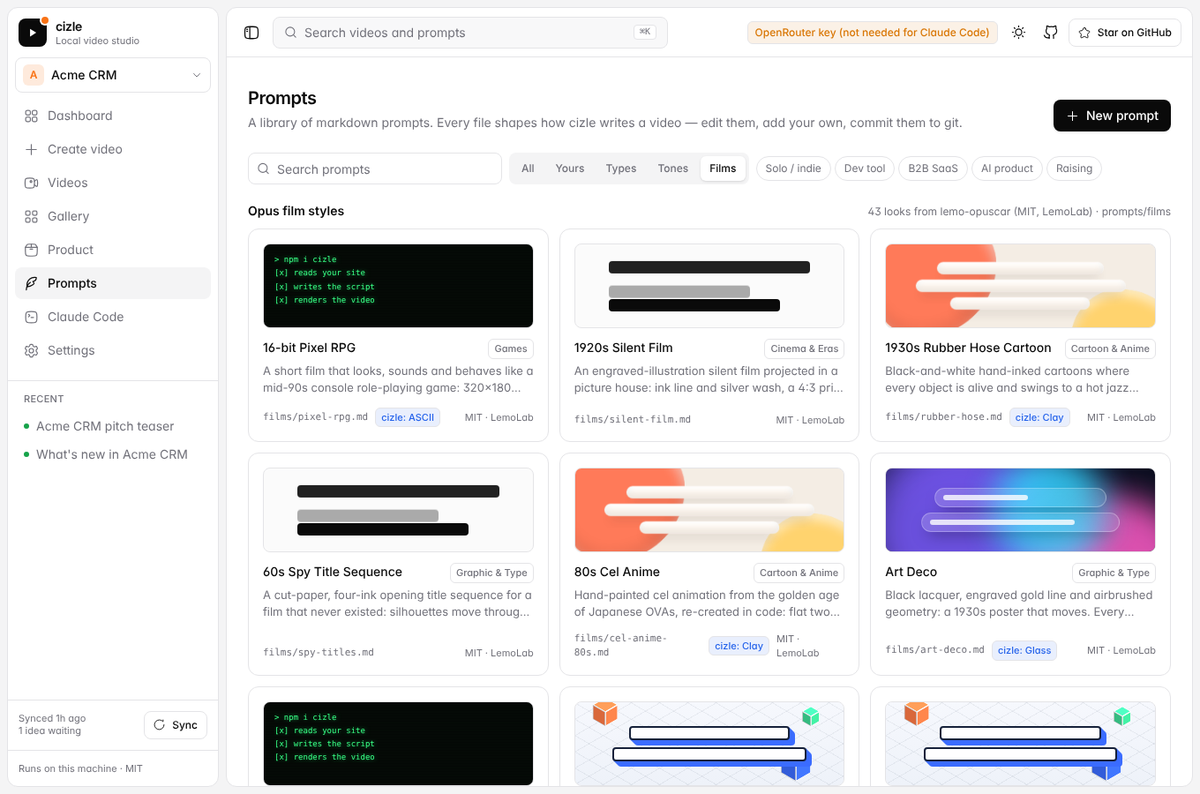
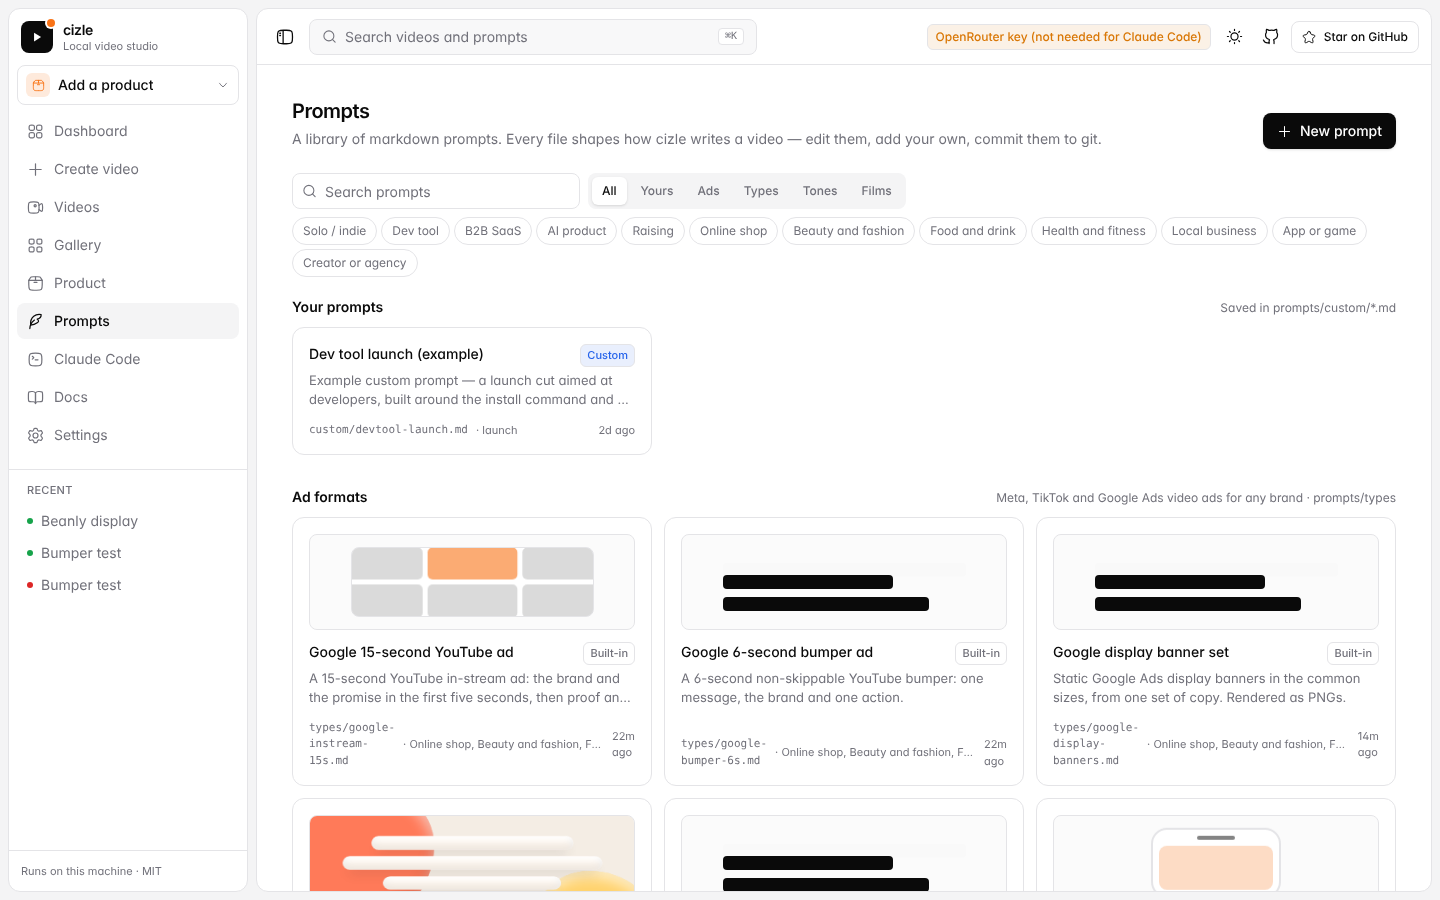
Storyboards can carry real images, fix ads guide syntax, serve mp4 with Range, refresh docs screenshots
Claude-Session: https://claude.ai/code/session_01ADgGft7A9yJ8TpQNorLuxU

diff --git a/server/pipeline/job.js b/server/pipeline/job.js
@@ -24,7 +24,7 @@ import {
 	sanitizeStoryboard,
 	verifyOpenRouterKey,
 } from "./render.js";
-import { ensureFfmpeg } from "./media.js";
+import { ensureFfmpeg, probeImageSize } from "./media.js";
 import { cleanPack, estimatePackCost, packMarkdown, packToStoryboard, runPackJob } from "./pack.js";
 import { STYLE_IDS, normalizeStyle } from "./styles.js";
 import { gatherProductContext } from "./context.js";
@@ -42,7 +42,7 @@ import { loadSettings } from "../settings.js";
 import { tierModels } from "../models.js";
 import { isFreeModel } from "./openrouter.js";
 import { readProductMemory } from "../products/store.js";
-import { VIDEOS_DIR } from "../paths.js";
+import { ROOT, VIDEOS_DIR } from "../paths.js";
 
 const MAX_SHORT_SEC = 59;
 const jobs = new Map();
@@ -376,6 +376,41 @@ export async function createStoryboardJob(body = {}, deps, { origin = { kind: "c
 	return publicJob(job);
 }
 
+const IMAGE_EXT = /\.(png|jpe?g)$/i;
+/**
+ * A scene written by an agent can carry its own picture: visual.image is a local PNG/JPEG path (absolute, or relative to the
+ * cizle folder) or an https URL. Each becomes a frame the renderer can show (visual.chrome: false drops the browser window).
+ */
+async function framesFromScenes(scenes, workDir) {
+	const frames = [];
+	const byKey = new Map();
+	for (const sc of scenes) {
+		const v = sc?.visual;
+		if (!v?.image || !["screenshot", "image"].includes(v.type)) continue;
+		const key = String(v.image);
+		let f = byKey.get(key);
+		if (!f) {
+			let file;
+			if (/^https:\/\//i.test(key)) {
+				const res = await fetch(key, { signal: AbortSignal.timeout(20_000) });
+				if (!res.ok) throw badInput(`Could not download the image ${key} (${res.status}).`);
+				file = path.join(workDir, "frames", `img${frames.length + 1}${/\.jpe?g/i.test(key) ? ".jpg" : ".png"}`);
+				await fsp.mkdir(path.dirname(file), { recursive: true });
+				await fsp.writeFile(file, Buffer.from(await res.arrayBuffer()));
+			} else {
+				file = path.resolve(ROOT, key);
+				if (!IMAGE_EXT.test(file) || !fs.existsSync(file) || fs.statSync(file).size > 15_000_000) throw badInput(`visual.image must be a PNG or JPEG file under 15 MB or an https URL: ${key}`);
+			}
+			const { width, height } = await probeImageSize(file);
+			f = { id: `img${frames.length + 1}`, kind: v.chrome === false ? "image" : "section", file, width, height, url: "", source: key };
+			frames.push(f);
+			byKey.set(key, f);
+		}
+		v.frame_id = f.id;
+	}
+	return frames;
+}
+
 async function runStoryboardJob(job, board, body, deps) {
 	const input = job.input;
 	const workDir = jobDir(job.id);
@@ -394,9 +429,10 @@ async function runStoryboardJob(job, board, body, deps) {
 	const style = normalizeStyle(input.style && input.style !== "auto" ? input.style : board.theme?.style || typeEntry?.style || "default");
 	job.style = style;
 	const source = { name: job.title, title: job.title, url: input.url || "", type: "page" };
+	const frames = await framesFromScenes(board.scenes.slice(0, 14), workDir);
 	const sb = sanitizeStoryboard(
 		{ ...board, scenes: board.scenes.slice(0, 14), music: board.music || { mood: "calm", search_query: "light instrumental", bpm: 96 }, sfx: false },
-		{ frames: [], codeFiles: [], input: { max_scenes: 14 }, source, instructions: "" },
+		{ frames, codeFiles: [], input: { max_scenes: 14 }, source, instructions: "" },
 	);
 	const outro = sb.scenes[sb.scenes.length - 1].visual;
 	if (outro.type === "outro") {
@@ -424,7 +460,7 @@ async function runStoryboardJob(job, board, body, deps) {
 	};
 	job.variants = [v];
 	await save(job);
-	await renderOne({ job, v, gathered: { frames: [], repoDir: null }, notes: [], input, workDir, deps, costs, log, rel });
+	await renderOne({ job, v, gathered: { frames, repoDir: null }, notes: [], input, workDir, deps, costs, log, rel });
 	throwIfCancelled();
 	const spent = costs.reduce((a, c) => a + (c.usd || 0), 0);
 	job.cost = { currency: "USD", total_usd: round(spent), by_stage: groupCost(costs), by_variant: { v1: round(spent, 6) } };

diff --git a/server/index.js b/server/index.js
@@ -237,13 +237,10 @@ api.get("/gallery", async (c) => {
 
 /* local files (frames, MP4s) with Range support for video seeking */
 const TYPES = { ".mp4": "video/mp4", ".png": "image/png", ".jpg": "image/jpeg", ".json": "application/json", ".srt": "text/plain; charset=utf-8", ".wav": "audio/wav", ".m4a": "audio/mp4" };
-api.get("/files/:id", (c) => {
-	const base = path.resolve(jobDir(c.req.param("id")));
-	const file = path.resolve(base, String(c.req.query("p") || ""));
-	if (!file.startsWith(base + path.sep) || !fs.existsSync(file) || !fs.statSync(file).isFile()) return c.json({ error: "Not found" }, 404);
-	const type = TYPES[path.extname(file).toLowerCase()] || "application/octet-stream";
+/** Stream a file with Range support (video seeking). */
+function serveFile(c, file, type, extra = {}) {
 	const size = fs.statSync(file).size;
-	const headers = { "Content-Type": type, "Accept-Ranges": "bytes", ...(c.req.query("download") ? { "Content-Disposition": `attachment; filename="${path.basename(file)}"` } : {}) };
+	const headers = { "Content-Type": type, "Accept-Ranges": "bytes", ...extra };
 	const range = /^bytes=(\d*)-(\d*)$/.exec(c.req.header("range") || "");
 	if (range) {
 		const start = range[1] ? Number(range[1]) : 0;
@@ -252,6 +249,13 @@ api.get("/files/:id", (c) => {
 		return c.body(Readable.toWeb(fs.createReadStream(file, { start, end })), 206, { ...headers, "Content-Length": String(end - start + 1), "Content-Range": `bytes ${start}-${end}/${size}` });
 	}
 	return c.body(Readable.toWeb(fs.createReadStream(file)), 200, { ...headers, "Content-Length": String(size) });
+}
+api.get("/files/:id", (c) => {
+	const base = path.resolve(jobDir(c.req.param("id")));
+	const file = path.resolve(base, String(c.req.query("p") || ""));
+	if (!file.startsWith(base + path.sep) || !fs.existsSync(file) || !fs.statSync(file).isFile()) return c.json({ error: "Not found" }, 404);
+	const type = TYPES[path.extname(file).toLowerCase()] || "application/octet-stream";
+	return serveFile(c, file, type, c.req.query("download") ? { "Content-Disposition": `attachment; filename="${path.basename(file)}"` } : {});
 });
 
 app.route("/api", api);
@@ -259,10 +263,11 @@ app.route("/api", api);
 /* production: serve the built dashboard */
 const DIST = path.join(ROOT, "web", "dist");
 if (fs.existsSync(DIST)) {
-	const MIME = { ".html": "text/html", ".js": "text/javascript", ".css": "text/css", ".svg": "image/svg+xml", ".png": "image/png", ".ico": "image/x-icon", ".woff2": "font/woff2", ".json": "application/json" };
+	const MIME = { ".html": "text/html", ".js": "text/javascript", ".css": "text/css", ".svg": "image/svg+xml", ".png": "image/png", ".ico": "image/x-icon", ".woff2": "font/woff2", ".json": "application/json", ".jpg": "image/jpeg" };
 	app.get("*", (c) => {
 		const p = path.resolve(DIST, `.${decodeURIComponent(new URL(c.req.url).pathname)}`);
 		const file = p.startsWith(DIST) && fs.existsSync(p) && fs.statSync(p).isFile() ? p : path.join(DIST, "index.html");
+		if (path.extname(file) === ".mp4") return serveFile(c, file, "video/mp4");
 		return c.body(fs.readFileSync(file), 200, { "Content-Type": MIME[path.extname(file)] || "application/octet-stream" });
 	});
 }

diff --git a/server/mcp/guide.js b/server/mcp/guide.js
@@ -67,6 +67,8 @@ You write the storyboard. cizle renders it (animated frames, captions, music, FF
   ]
 }
 \`\`\`
+Pictures: a scene of type \`screenshot\` can show a real image with \`"image": "docs/dashboard.png"\` (a PNG or JPEG path, absolute or relative to the cizle folder, or an https URL). Add \`"chrome": false\` to show the picture without a browser window around it.
+
 Optional \`pack\` (hook, narration[], storyboard[], video_prompts[], subtitles[], sound_design[], assembly[], source_facts[]) adds a prompt pack tab to the video page for people who also use a generative video model.
 
 ## Scenes (one per scene, in \`visual.type\`)
@@ -92,7 +94,7 @@ ${films.map((t) => `- \`${t.id}\`: ${t.name} (${t.category}${t.style ? `; cizle 
 ${tones.map((t) => `- \`${t.id}\`: ${t.name}${t.style ? ` (style: ${t.style})` : ""}. ${t.description}`).join("\n")}
 
 ## Ads for brands
-When the user wants an ad (Meta, TikTok or Google Ads; a brand, an online shop, a local business, an app or a SaaS), pick one of these types, read it with \`read_prompt\` and follow its by-brand section. Use the aspect the type names. Ad formats are never chosen automatically: pass the type slug. Types marked "static banners" are not videos: write the banner copy their guide asks for and call `create_banners` (not `create_video`); the PNGs are saved in the dashboard.
+When the user wants an ad (Meta, TikTok or Google Ads; a brand, an online shop, a local business, an app or a SaaS), pick one of these types, read it with \`read_prompt\` and follow its by-brand section. Use the aspect the type names. Ad formats are never chosen automatically: pass the type slug. Types marked "static banners" are not videos: write the banner copy their guide asks for and call \`create_banners\` (not \`create_video\`); the PNGs are saved in the dashboard.
 ${ads.map((t) => `- \`${t.id}\`: ${t.name} (${t.platform}, ${t.aspect || "9:16"}, ${t.duration || 15}s${t.output === "banner" ? ", static banners" : ""}). ${t.description}`).join("\n")}
 
 ## Creative laws

diff --git a/web/src/pages/Docs.tsx b/web/src/pages/Docs.tsx
@@ -27,6 +27,13 @@ function headings(md: string) {
 const components: Components = {
 	h2: ({ children }) => <h2 id={slug(text(children))}>{children}</h2>,
 	h3: ({ children }) => <h3 id={slug(text(children))}>{children}</h3>,
+	// ![alt](/videos/x.mp4) becomes a video player; any other image stays an image.
+	img: ({ src, alt }) =>
+		src && /\.mp4$/i.test(src) ? (
+			<video src={src} controls playsInline preload="metadata" aria-label={alt} className="my-4 max-h-[70vh] w-full rounded-xl border border-border bg-black" />
+		) : (
+			<img src={src} alt={alt} loading="lazy" className="my-4 rounded-xl border border-border" />
+		),
 	a: ({ href, children }) => (
 		<a href={href} {...(href?.startsWith("http") ? { target: "_blank", rel: "noreferrer" } : {})}>
 			{children}
